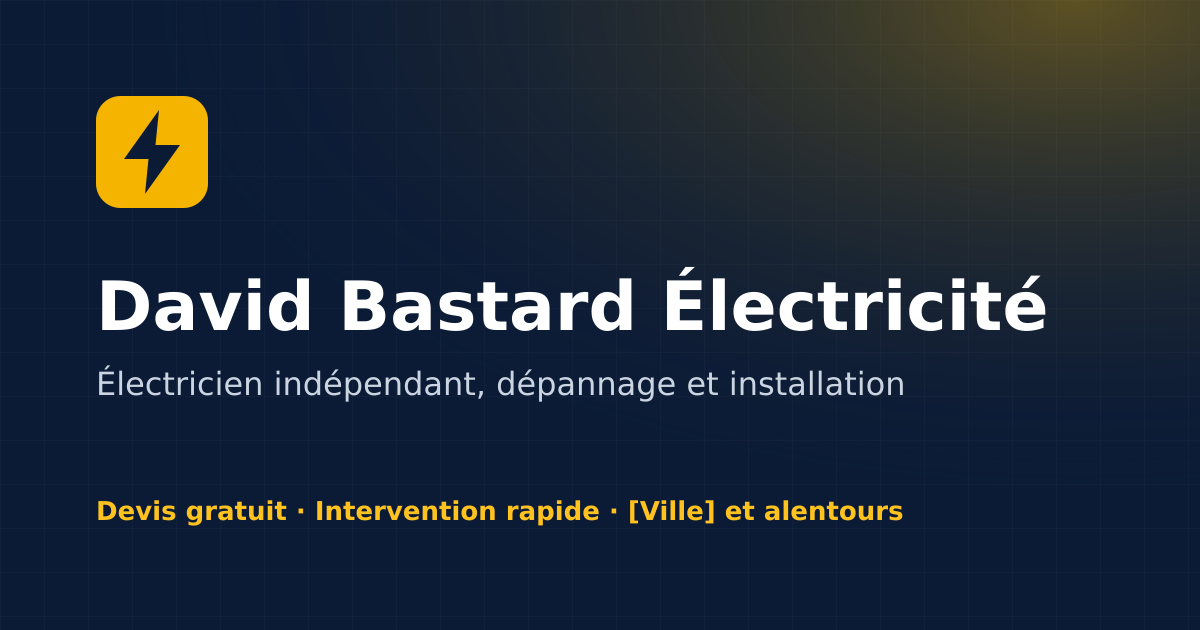
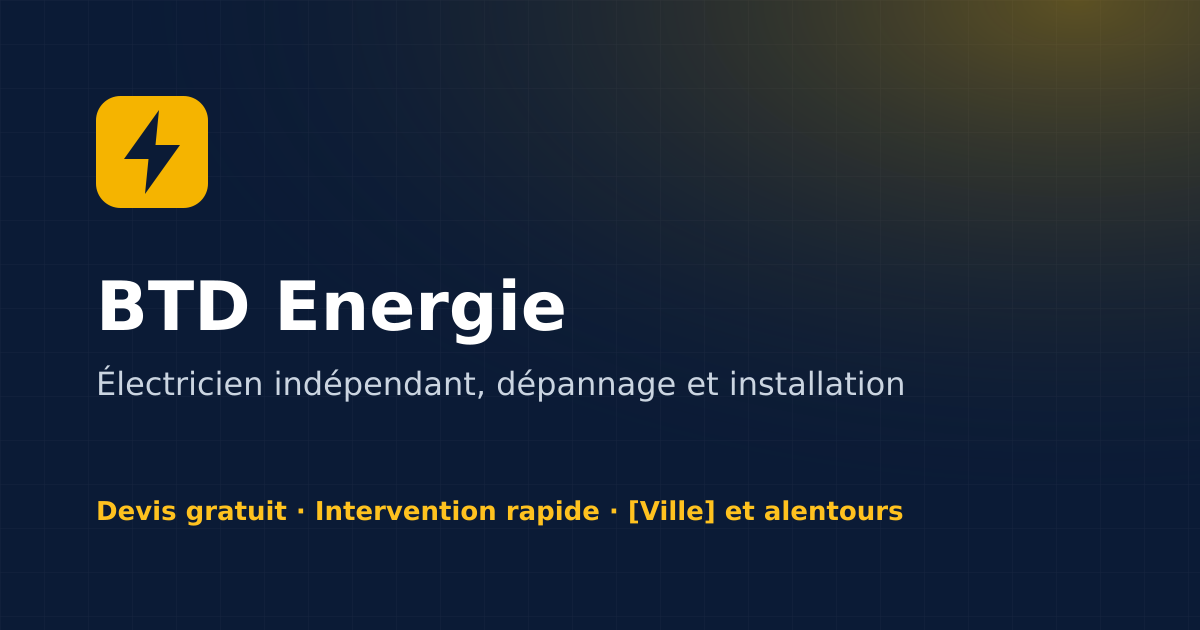
Renommage en BTD Energie (dépôt, base URL, nom du site)

Changed region(s): [[0.0925, 0.4222, 0.5242, 0.5429], [0.555, 0.4222, 0.8942, 0.5429]]

diff --git a/src/lib/utils.ts b/src/lib/utils.ts
@@ -1,10 +1,10 @@
 /**
  * Préfixe un chemin interne avec la base du site.
- * Tant que le site est servi sous /david-bastard-elec (GitHub Pages sans
+ * Tant que le site est servi sous /btd-energie (GitHub Pages sans
  * domaine), tous les liens internes doivent passer par ici.
- *   href('/')                 → /david-bastard-elec/
- *   href('/#contact')         → /david-bastard-elec/#contact
- *   href('/mentions-legales/')→ /david-bastard-elec/mentions-legales/
+ *   href('/')                 → /btd-energie/
+ *   href('/#contact')         → /btd-energie/#contact
+ *   href('/mentions-legales/')→ /btd-energie/mentions-legales/
  */
 export function href(path: string): string {
   const base = import.meta.env.BASE_URL.replace(/\/$/, '');

diff --git a/src/data/site.ts b/src/data/site.ts
@@ -15,8 +15,8 @@ export const site = {
    */
   enConstruction: true,
 
-  name: 'David Bastard Électricité',
-  shortName: 'DB Élec',
+  name: 'BTD Energie',
+  shortName: 'BTD Energie',
   owner: 'David Bastard',
   tagline: 'Électricien indépendant, dépannage et installation',
   description:

diff --git a/README.md b/README.md
@@ -1,4 +1,4 @@
-# David Bastard Électricité — site vitrine
+# BTD Energie — site vitrine (électricien)
 
 Site vitrine statique pour un électricien indépendant : présentation des services,
 zone d'intervention, réalisations, avis, FAQ et **tous les moyens de contact**
@@ -6,7 +6,7 @@ zone d'intervention, réalisations, avis, FAQ et **tous les moyens de contact**
 
 Hébergé gratuitement sur GitHub Pages, déployé automatiquement à chaque push sur `main`.
 
-**URL actuelle :** https://vcheloudiakoff.github.io/david-bastard-elec/
+**URL actuelle :** https://vcheloudiakoff.github.io/btd-energie/
 
 ## Choix techniques (et pourquoi)
 
@@ -23,7 +23,7 @@ Hébergé gratuitement sur GitHub Pages, déployé automatiquement à chaque pus
 
 ```bash
 npm install
-npm run dev        # http://localhost:4321/david-bastard-elec/
+npm run dev        # http://localhost:4321/btd-energie/
 npm run build      # génère dist/
 npm run preview    # prévisualise dist/
 npm run check      # vérification TypeScript / Astro
@@ -71,16 +71,16 @@ scripts/generate-images.mjs ← image de partage (Open Graph) et icône iOS
 
 ### Nom de domaine (recommandé, ≈ 10 €/an)
 
-Quand David aura un domaine (ex. `david-bastard-elec.fr` chez OVH, Gandi, Ionos…) :
+Quand David aura un domaine (ex. `btd-energie.fr` chez OVH, Gandi, Ionos…) :
 
-1. `astro.config.mjs` : `site: 'https://david-bastard-elec.fr'` et `base: '/'`.
-2. Créer `public/CNAME` contenant `david-bastard-elec.fr`.
+1. `astro.config.mjs` : `site: 'https://btd-energie.fr'` et `base: '/'`.
+2. Créer `public/CNAME` contenant `btd-energie.fr`.
 3. Chez le registrar, ajouter les enregistrements DNS :
    - `A` → `185.199.108.153`, `185.199.109.153`, `185.199.110.153`, `185.199.111.153`
    - `CNAME www` → `vcheloudiakoff.github.io`
 4. GitHub → *Settings → Pages → Custom domain*, cocher *Enforce HTTPS*.
 
-Le domaine permet aussi une adresse e-mail pro (`contact@david-bastard-elec.fr`),
+Le domaine permet aussi une adresse e-mail pro (`contact@btd-energie.fr`),
 souvent incluse chez le registrar.
 
 ## Check-list pour David (infos à fournir)
